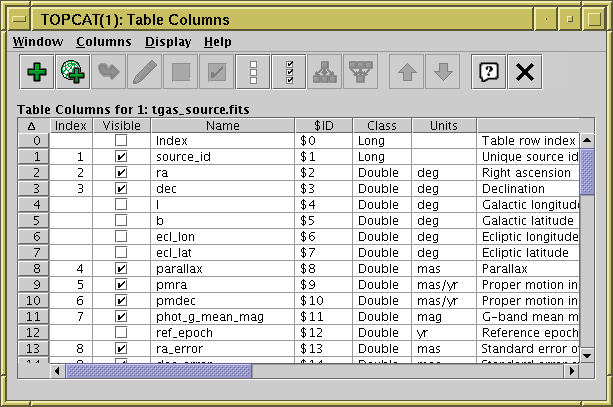
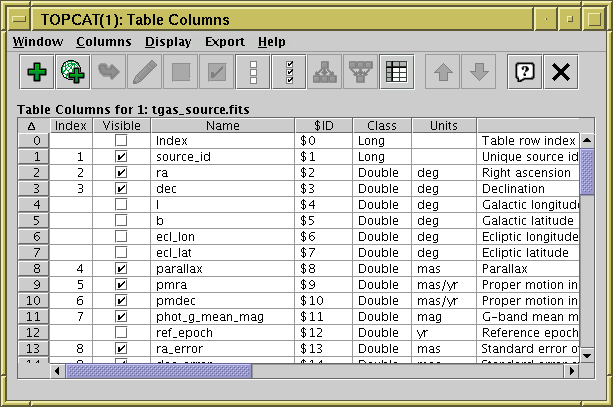
topcat: add Export actions to Columns window
From the Columns window you can now export the displayed metadata
table as a new table for saving to disk or import into topcat.

Suggested by Johannes Buchner.

Changed region(s): [[0.7129, 0.1179, 0.9608, 0.2359], [0.6199, 0.1179, 0.6819, 0.2359], [0.31, 0.0885, 0.4649, 0.1179]]

diff --git a/topcat/src/main/uk/ac/starlink/topcat/ColumnInfoWindow.java b/topcat/src/main/uk/ac/starlink/topcat/ColumnInfoWindow.java
@@ -39,6 +39,8 @@ import uk.ac.starlink.table.ColumnInfo;
 import uk.ac.starlink.table.DefaultValueInfo;
 import uk.ac.starlink.table.DescribedValue;
 import uk.ac.starlink.table.DomainMapper;
+import uk.ac.starlink.table.RowListStarTable;
+import uk.ac.starlink.table.StarTable;
 import uk.ac.starlink.table.Tables;
 import uk.ac.starlink.table.UCD;
 import uk.ac.starlink.table.ValueInfo;
@@ -519,6 +521,11 @@ public class ColumnInfoWindow extends AuxWindow {
                                                + "numeric scalar columns" );
         sortupAct_ = new SortAction( true );
         sortdownAct_ = new SortAction( false );
+        Action importAct =
+            createImportTableAction( "column metadata", this::getColumnsTable,
+                                     "Columns of " + tcModel_.getID() );
+        Action saveAct =
+            createSaveTableAction( "column metadata", this::getColumnsTable );
         addcolAct_.setEnabled( TopcatUtils.canJel() );
         replacecolAct_.setEnabled( TopcatUtils.canJel() );
 
@@ -544,6 +551,12 @@ public class ColumnInfoWindow extends AuxWindow {
         displayMenu.setMnemonic( KeyEvent.VK_D );
         getJMenuBar().add( displayMenu );
 
+        /* Menu for export actions. */
+        JMenu exportMenu = new JMenu( "Export" );
+        exportMenu.add( importAct );
+        exportMenu.add( saveAct );
+        getJMenuBar().add( exportMenu );
+
         /* Add a selection listener for menu items. */
         jtab_.getSelectionModel()
             .addListSelectionListener( new ListSelectionListener() {
@@ -564,6 +577,7 @@ public class ColumnInfoWindow extends AuxWindow {
         getToolBar().add( revealallAct_ );
         getToolBar().add( explodecolAct_ );
         getToolBar().add( collapsecolsAct_ );
+        getToolBar().add( importAct );
         getToolBar().addSeparator();
         getToolBar().add( sortupAct_ );
         getToolBar().add( sortdownAct_ );
@@ -915,6 +929,33 @@ public class ColumnInfoWindow extends AuxWindow {
                 return value;
             }
         };
+    }
+
+    /**
+     * Converts the displayed content of this window to a StarTable
+     * suitable for export.
+     *
+     * @return   StarTable of column metadata
+     */
+    private StarTable getColumnsTable() {
+        int ncol = jtab_.getColumnCount();
+        ColumnInfo[] infos = new ColumnInfo[ ncol ];
+        List<MetaColumn> colList = metaTableModel_.getColumnList();
+        for ( int icol = 0; icol < ncol; icol++ ) {
+            int jcol = jtab_.getColumnModel().getColumn( icol ).getModelIndex();
+            infos[ icol ] = new ColumnInfo( colList.get( jcol ).getInfo() );
+        }
+        RowListStarTable table = new RowListStarTable( infos );
+        table.setName( "Column metadata for " + tcModel_.getLabel() );
+        int nrow = jtab_.getRowCount();
+        for ( int irow = 0; irow < nrow; irow++ ) {
+            Object[] row = new Object[ ncol ];
+            for ( int icol = 0; icol < ncol; icol++ ) {
+                row[ icol ] = jtab_.getValueAt( irow, icol );
+            }
+            table.addRow( row );
+        }
+        return new NormaliseTable( table );
     }
 
     /**
